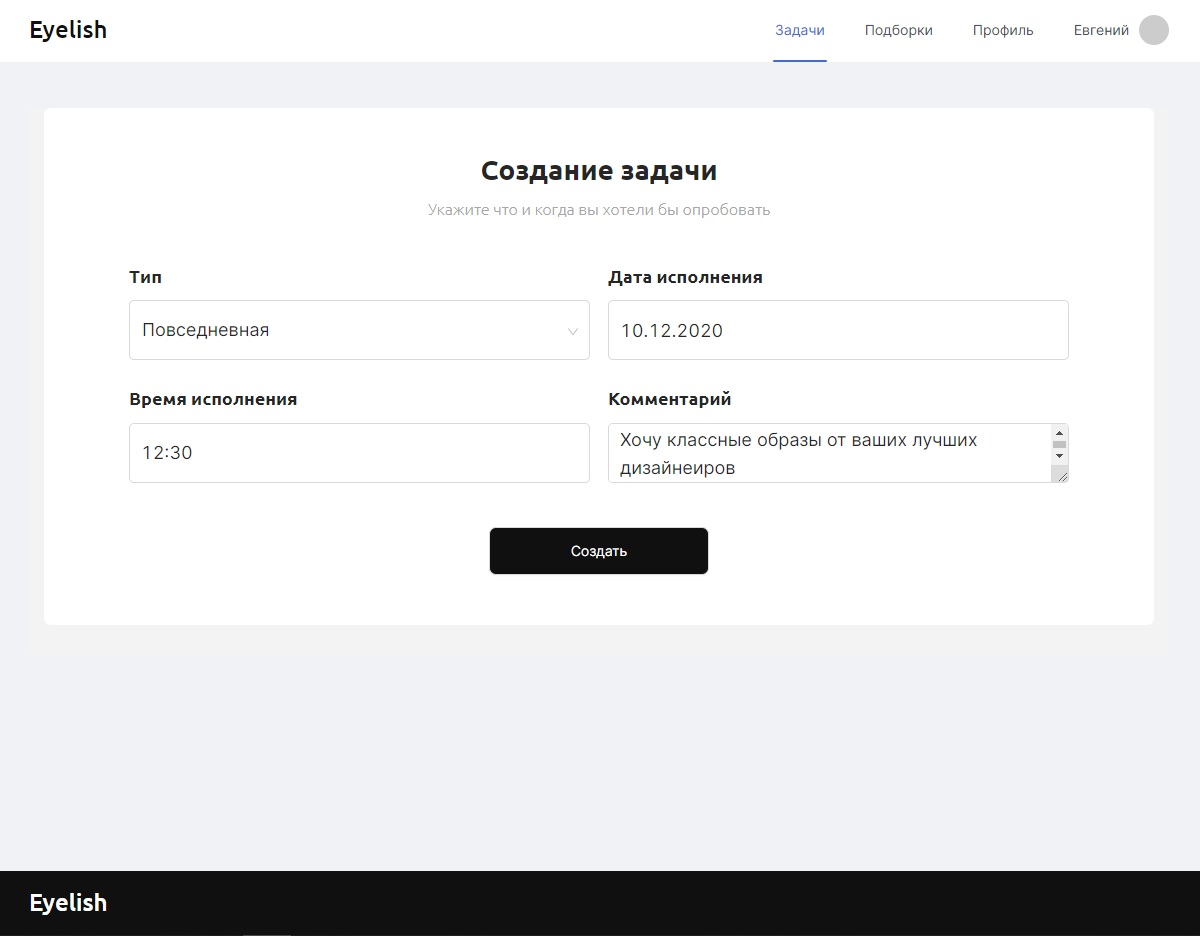
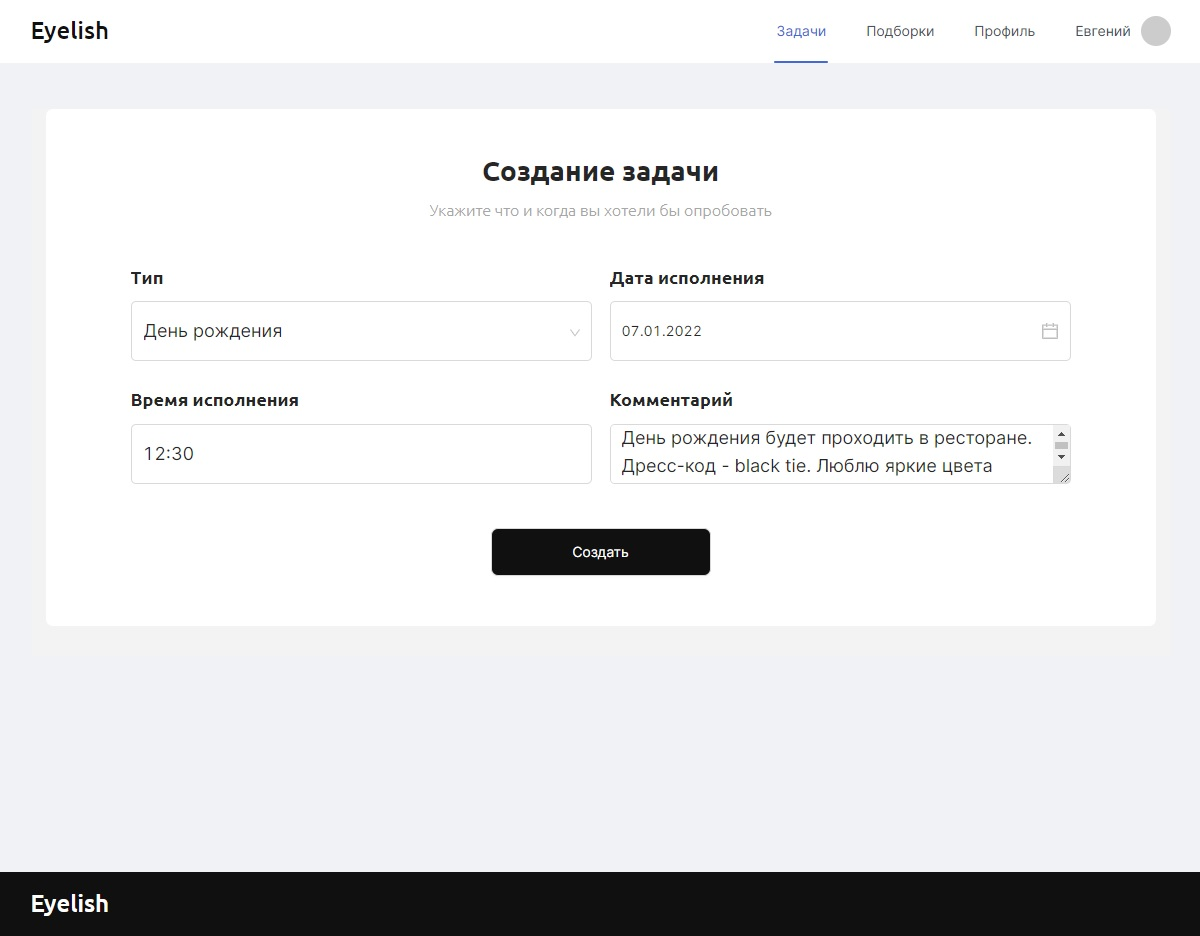
changed texts for the main page

diff --git a/src/components/pages/HomePage/HomePage.tsx b/src/components/pages/HomePage/HomePage.tsx
@@ -19,7 +19,7 @@ function HomePage(): JSX.Element {
                         <div className={styles['compilation-section__content']}>
                             <div className={styles['compilation-section__left']}>
                                 <div className={styles['compilation-section__title']}>Подбор и доставка стильных образов</div>
-                                <div className={styles['compilation-section__desc']}>Персональные подборки для вашего гардероба от стилистов. <br/>Для любых целей. <br/>И всё онлайн.</div>
+                                <div className={styles['compilation-section__desc']}>Персональные подборки для вашего гардероба от стилистов. <br/>Для любых целей. <br/>Полностью онлайн.</div>
                             </div>
                             <div className={styles['compilation-section__right']}></div>
                             <Link to={getLinkToQiuze()}>
@@ -40,10 +40,11 @@ function HomePage(): JSX.Element {
                             <div className={styles['receive-section__left']}>
                                 <div className={styles['receive-section__title']}>Как мы работаем</div>
                                 <ul className={styles['receive-section__items']}>
-                                    <li>Вы проходите анкету</li>
-                                    <li>Наши стилисты подбирают вам готовые образа</li>
-                                    <li>Вы отбираете те, что вам понравились</li>
-                                    <li>Платите только за услуги стилиста, доставка и возврат — бесплатно</li>
+                                    <li>Заполняете анкету</li>
+                                    <li>Стилисты приложения подберут вам готовые образы</li>
+                                    <li>Заказывайте только то, что вам понравилось</li>
+                                    <li>Примеряете перед покупкой</li>
+                                    <li>Платите только за услуги стилистов, доставка и возврат бесплатны</li>
                                 </ul>
                                 <div className={styles['receive-section__price']}>Стоимость услуги — <span>1490₽</span></div>
                             </div>
@@ -59,7 +60,7 @@ function HomePage(): JSX.Element {
                             <div className={styles['work-example__info']}>
                                 <div className={styles['work-example__top']}></div>
                                 <div className={styles['work-example__title']}>Заполнение анкеты</div>
-                                <div className={styles['work-example__desc']}>Анкета нужна, чтобы мы познакомились с вами и смогли наиболее точно подобрать подходящие вещи для ваших целей. На заполнение уйдет 5-7 минут. Это быстрее, чем поход в магазин или на прием к стилисту. После прохождения опроса вы автоматически регистрируетесь и получаете письмо с паролем на почту.</div>
+                                <div className={styles['work-example__desc']}>Анкета нужна, чтобы мы познакомились с вами и смогли наиболее точно подобрать подходящие вещи для ваших целей. На заполнение уйдет 5-7 минут. Это быстрее, чем поход по магазинам или встреча со стилистом. После прохождения опроса вы автоматически регистрируетесь и получаете письмо с паролем на почту.</div>
                             </div>
                         </div>
                         <div className={classNames(styles['work-example'], styles['work-example--right'])}>
@@ -67,7 +68,7 @@ function HomePage(): JSX.Element {
                             <div className={styles['work-example__info']}>
                                 <div className={styles['work-example__top']}></div>
                                 <div className={styles['work-example__title']}>Создание задачи</div>
-                                <div className={styles['work-example__desc']}>После регистрации вы сможете создавать задачи для стилистов: выбериать тип задачи, дату и время исполнения и оставлять комментарий с пожеланиями.</div>
+                                <div className={styles['work-example__desc']}>После регистрации вы сможете создавать конкретные задачи для стилистов: выбирать тип задачи, дату и время исполнения. А также оставлять комментарий с пожеланиями. </div>
                             </div>
                         </div>
                         <div className={classNames(styles['work-example'], styles['work-example--left'])}>
@@ -75,7 +76,7 @@ function HomePage(): JSX.Element {
                             <div className={styles['work-example__info']}>
                                 <div className={styles['work-example__top']}></div>
                                 <div className={styles['work-example__title']}>Работа стилистов</div>
-                                <div className={styles['work-example__desc']}>Наши стилисты подберут вам 3 образа. Каждый образ - это 5 вещей. Мы сообщим вам на почту как только образы будут готовы. Затем вы сможете увидеть эти на странице подборок в самом верху.</div>
+                                <div className={styles['work-example__desc']}>Стилисты подберут вам 3 образа. В каждом 5 вещей, включая обувь и аксессуары. Как только образы будут готовы, вам придет уведомление на почту, в приложении вы сможете увидеть их на странице подборок.</div>
                             </div>
                         </div>
                         <div className={classNames(styles['work-example'], styles['work-example--right'])}>
@@ -83,7 +84,7 @@ function HomePage(): JSX.Element {
                             <div className={styles['work-example__info']}>
                                 <div className={styles['work-example__top']}></div>
                                 <div className={styles['work-example__title']}>Выбор понравившихся образов</div>
-                                <div className={styles['work-example__desc']}>Вы изучаете образы и выбирате то, что понравилось.</div>
+                                <div className={styles['work-example__desc']}>Вы изучаете образы и выбираете вещи, которые вам понравились.</div>
                             </div>
                         </div>
                         <div className={classNames(styles['work-example'], styles['work-example--left'])}>
@@ -91,7 +92,15 @@ function HomePage(): JSX.Element {
                             <div className={styles['work-example__info']}>
                                 <div className={styles['work-example__top']}></div>
                                 <div className={styles['work-example__title']}>Доставка и оплата</div>
-                                <div className={styles['work-example__desc']}>Наш курьер доставит понравившиеся вам образы в указанное в задаче время. У вас будет 1 день на примерку, после чего наш курьер заберет то, что вам не подошло и примет оплату.</div>
+                                <div className={styles['work-example__desc']}>Доставка в удобное вам время. Оплата после примерки.</div>
+                            </div>
+                        </div>
+                        <div className={classNames(styles['work-example'], styles['work-example--right'])}>
+                            <img className={styles['work-example__image']} src={"./assets/images/feedback.jpg"} alt="" />
+                            <div className={styles['work-example__info']}>
+                                <div className={styles['work-example__top']}></div>
+                                <div className={styles['work-example__title']}>Обратная связь</div>
+                                <div className={styles['work-example__desc']}>Если вам не понравится образ или не подойдут вещи, вы сможете связаться со стилистом и рассказать о причинах. И, наоборот, прокомментировать почему образ вас впечатлил, как вы себя в нем ощущаете. С каждым новым комментарием стилист будет лучше знать ваши предпочтения и собирать образы быстрее!</div>
                             </div>
                         </div>
                         <Link to={getLinkToQiuze()}>
@@ -123,7 +132,7 @@ function HomePage(): JSX.Element {
                 <div className={styles['q-and-a']}>
                     <div className="container">
                         <div className={styles['q-and-a__content']}>
-                            <div className={styles['q-and-a__title']}>Q&A</div>
+                            <div className={styles['q-and-a__title']}>Вопросы & Ответы</div>
                             <div className={styles['q-and-a__items']}>
                                 {qandAItems.map((qandAItem, index) => <QandAItem key={`q-and-a-${index}`} item={qandAItem} />)}
                             </div>

diff --git a/src/components/pages/UserPage/TaskCreationPage/TaskCreationPage.tsx b/src/components/pages/UserPage/TaskCreationPage/TaskCreationPage.tsx
@@ -1,7 +1,9 @@
-import { Button, Form, Input, Select } from "antd";
+import { Button, DatePicker, Form, Input, Select } from "antd";
+import { MaskedInput } from "antd-mask-input";
 import classNames from "classnames";
 import QuizeHeader from "components/pages/QuizePage/QuizeHeader";
 import { TQuizeHeaderConfig } from "components/pages/QuizePage/QuizeHeader/types";
+import moment from "moment";
 import "moment/locale/ru";
 import React, { FC, memo, useEffect, useState } from "react";
 import { useSelector } from "react-redux";
@@ -10,6 +12,7 @@ import { TRootState, useAppDispatch } from "redux/ReduxStore";
 import { tasksThunks } from "redux/slicers/tasksPageSlice";
 import { paths, UsrPage } from "../routes/consts";
 import { FieldTypes, formFields } from "./constants";
+import { handleTimeChange } from "./helpers";
 import styles from "./TaskCreationPage.module.scss";
 
 /* eslint-disable no-template-curly-in-string */
@@ -23,9 +26,8 @@ export const TaskCreationPage: FC = () => {
   const [saveLoading] = useState(false);
 
   const dispatch = useAppDispatch();
-  const { types, loading } = useSelector(
-    (state: TRootState) => state.tasksPage
-  );
+  const { types } = useSelector((state: TRootState) => state.tasksPage);
+  const [form] = Form.useForm();
 
   useEffect(() => {
     (async () => {
@@ -37,6 +39,7 @@ export const TaskCreationPage: FC = () => {
   const onFinish = async (formData) => {
     const payload = {
       ...formData,
+      date: moment(formData.date).format("DD.MM.YYYY")
     };
     await dispatch(tasksThunks.createTask(payload));
     history.push(paths[UsrPage.TASKS]);
@@ -69,14 +72,15 @@ export const TaskCreationPage: FC = () => {
           <div className={styles["task-creation-form"]}>
             <Form
               name="basic"
+              form={form}
               onFinish={onFinish}
               onFinishFailed={onFinishFailed}
               validateMessages={validateMessages}
             >
               <div className={styles["task-creation-form__body"]}>
-                {formFields.map((field, index) => (
+                {formFields.map(({ type, label, name }, index) => (
                   <React.Fragment key={index}>
-                    {field.type === FieldTypes.TYPE && (
+                    {type === FieldTypes.TYPE && (
                       <Form.Item
                         key={`field-${index}`}
                         className={classNames(
@@ -86,12 +90,12 @@ export const TaskCreationPage: FC = () => {
                         label={
                           <label
                             className={styles["form-item__label"]}
-                            htmlFor={field.name}
+                            htmlFor={name}
                           >
-                            {field.label}
+                            {label}
                           </label>
                         }
-                        name={field.name}
+                        name={name}
                         rules={[
                           {
                             required: true,
@@ -99,18 +103,18 @@ export const TaskCreationPage: FC = () => {
                         ]}
                       >
                         <Select>
-                          {options.map((option, index) => (
+                          {options.map(({ value, title }, index) => (
                             <Select.Option
-                              key={`task-${field.name}` + index}
-                              value={option.value}
+                              key={`task-${name}` + index}
+                              value={value}
                             >
-                              {option.title}
+                              {title}
                             </Select.Option>
                           ))}
                         </Select>
                       </Form.Item>
                     )}
-                    {field.type === FieldTypes.COMMENT && (
+                    {type === FieldTypes.COMMENT && (
                       <Form.Item
                         key={`field-${index}`}
                         className={classNames(
@@ -120,12 +124,12 @@ export const TaskCreationPage: FC = () => {
                         label={
                           <label
                             className={styles["form-item__label"]}
-                            htmlFor={field.name}
+                            htmlFor={name}
                           >
-                            {field.label}
+                            {label}
                           </label>
                         }
-                        name={field.name}
+                        name={name}
                         rules={[
                           {
                             required: true,
@@ -137,7 +141,7 @@ export const TaskCreationPage: FC = () => {
                         />
                       </Form.Item>
                     )}
-                    {field.type === FieldTypes.DATE && (
+                    {type === FieldTypes.DATE && (
                       <Form.Item
                         key={`field-${index}`}
                         className={classNames(
@@ -147,22 +151,25 @@ export const TaskCreationPage: FC = () => {
                         label={
                           <label
                             className={styles["form-item__label"]}
-                            htmlFor={field.name}
+                            htmlFor={name}
                           >
-                            {field.label}
+                            {label}
                           </label>
                         }
-                        name={field.name}
+                        name={name}
                         rules={[
                           {
                             required: true,
                           },
                         ]}
                       >
-                        <Input className={styles["form-item__input"]} />
+                        <DatePicker
+                          format={"DD.MM.YYYY"}
+                          className={styles["form-item__date"]}
+                        />
                       </Form.Item>
                     )}
-                    {field.type === FieldTypes.TIME && (
+                    {type === FieldTypes.TIME && (
                       <Form.Item
                         key={`field-${index}`}
                         className={classNames(
@@ -172,19 +179,23 @@ export const TaskCreationPage: FC = () => {
                         label={
                           <label
                             className={styles["form-item__label"]}
-                            htmlFor={field.name}
+                            htmlFor={name}
                           >
-                            {field.label}
+                            {label}
                           </label>
                         }
-                        name={field.name}
+                        name={name}
                         rules={[
                           {
                             required: true,
                           },
                         ]}
                       >
-                        <Input className={styles["form-item__input"]} />
+                        <MaskedInput
+                          className={styles["form-item__input"]}
+                          mask="11:11"
+                          onChange={(e) => handleTimeChange(e, form)}
+                        />
                       </Form.Item>
                     )}
                   </React.Fragment>

diff --git a/src/components/pages/HomePage/constants.ts b/src/components/pages/HomePage/constants.ts
@@ -2,15 +2,27 @@ import { TQandAItem } from "./types";
 
 export const qandAItems: TQandAItem[] = [
   {
-    title: 'Является ли Eyelish сервисом по подписке?',
-    description: 'Нет. Он никогда не был сервисом по подписке.',
+    title: 'Что такое Eyelish?',
+    description: 'Сервис онлайн шопинга со стилистами',
   },
   {
-    title: 'Как вы подбираете стиль и одежду?',
-    description: 'Наши лучшие стилисты изучают вашу анкету, рынок брендов и делают изумительные подборки.',
+    title: 'Нужна ли подписка?',
+    description: 'Специальной подписки не требуется, в стоимость каждой услуги включена фиксированная плата за работу стилиста - 1490.',
   },
   {
-    title: 'Доступна ли у вас бесплатная доставка?',
-    description: 'Да. Все доставки у нас бесплатные.',
+    title: 'Сколько стоит одежда?',
+    description: 'Мы предлагаем одежду, обувь и аксессуары по ценам, установленным брендами, без наценок.',
+  },
+  {
+    title: 'Куда возможна доставка?',
+    description: 'Пока мы работаем по Москве, но по мере продвижения будем доставлять и в другие города России.',
+  },
+  {
+    title: 'Что если не понравится ни одна из подборок?',
+    description: 'Напишите нам на почту eyelish@mail.ru, мы обязательно свяжемся с вами для решения вопросов.',
+  },
+  {
+    title: 'Как осуществляется оплата образов?',
+    description: 'Банковской картой или наличными курьеру после примерки.',
   },
 ];

diff --git a/src/index.tsx b/src/index.tsx
@@ -28,3 +28,14 @@ ReactDOM.render(
 // to log results (for example: reportWebVitals(console.log))
 // or send to an analytics endpoint. Learn more: https://bit.ly/CRA-vitals
 reportWebVitals();
+
+declare global {
+  interface String {
+    replaceAt(index: number, replacement: string) : string;
+  }
+}
+
+// eslint-disable-next-line no-extend-native
+String.prototype.replaceAt = function(index, replacement) {
+  return this.substr(0, index) + replacement + this.substr(index + replacement.length);
+}

diff --git a/src/components/pages/UserPage/TaskCreationPage/helpers.ts b/src/components/pages/UserPage/TaskCreationPage/helpers.ts
@@ -1,0 +1,18 @@
+export const handleTimeChange = (e, form) => {
+  let time: string = e.target.value;
+  if (+time[0] > 2) {
+    time = time.replaceAt(0, "2");
+  }
+
+  if (+time[0] === 2 && +time[1] > 4) {
+    time = time.replaceAt(1, "3");
+  }
+
+  if (+time[3] > 5) {
+    time = time.replaceAt(3, "5");
+  }
+
+  form.setFieldsValue({
+    time,
+  });
+};

diff --git a/src/components/pages/UserPage/TaskCreationPage/TaskCreationPage.module.scss b/src/components/pages/UserPage/TaskCreationPage/TaskCreationPage.module.scss
@@ -49,6 +49,13 @@
     font-size: 18px !important;
     height: 60px !important;
   }
+  &__date {
+    padding: 15px 11px !important;
+    border-radius: 5px !important;
+    font-size: 18px !important;
+    height: 60px !important;
+    width: 100% !important;
+  }
   &:nth-child(2n) {
     margin-left: 18px;
   }

diff --git a/src/components/pages/HomePage/HomePage.module.scss b/src/components/pages/HomePage/HomePage.module.scss
@@ -111,6 +111,7 @@
     &__price {
         font-size: 24px;
         margin-top: 30px;
+        margin-bottom: 7px;
         span {
             font-weight: 500;
         }
